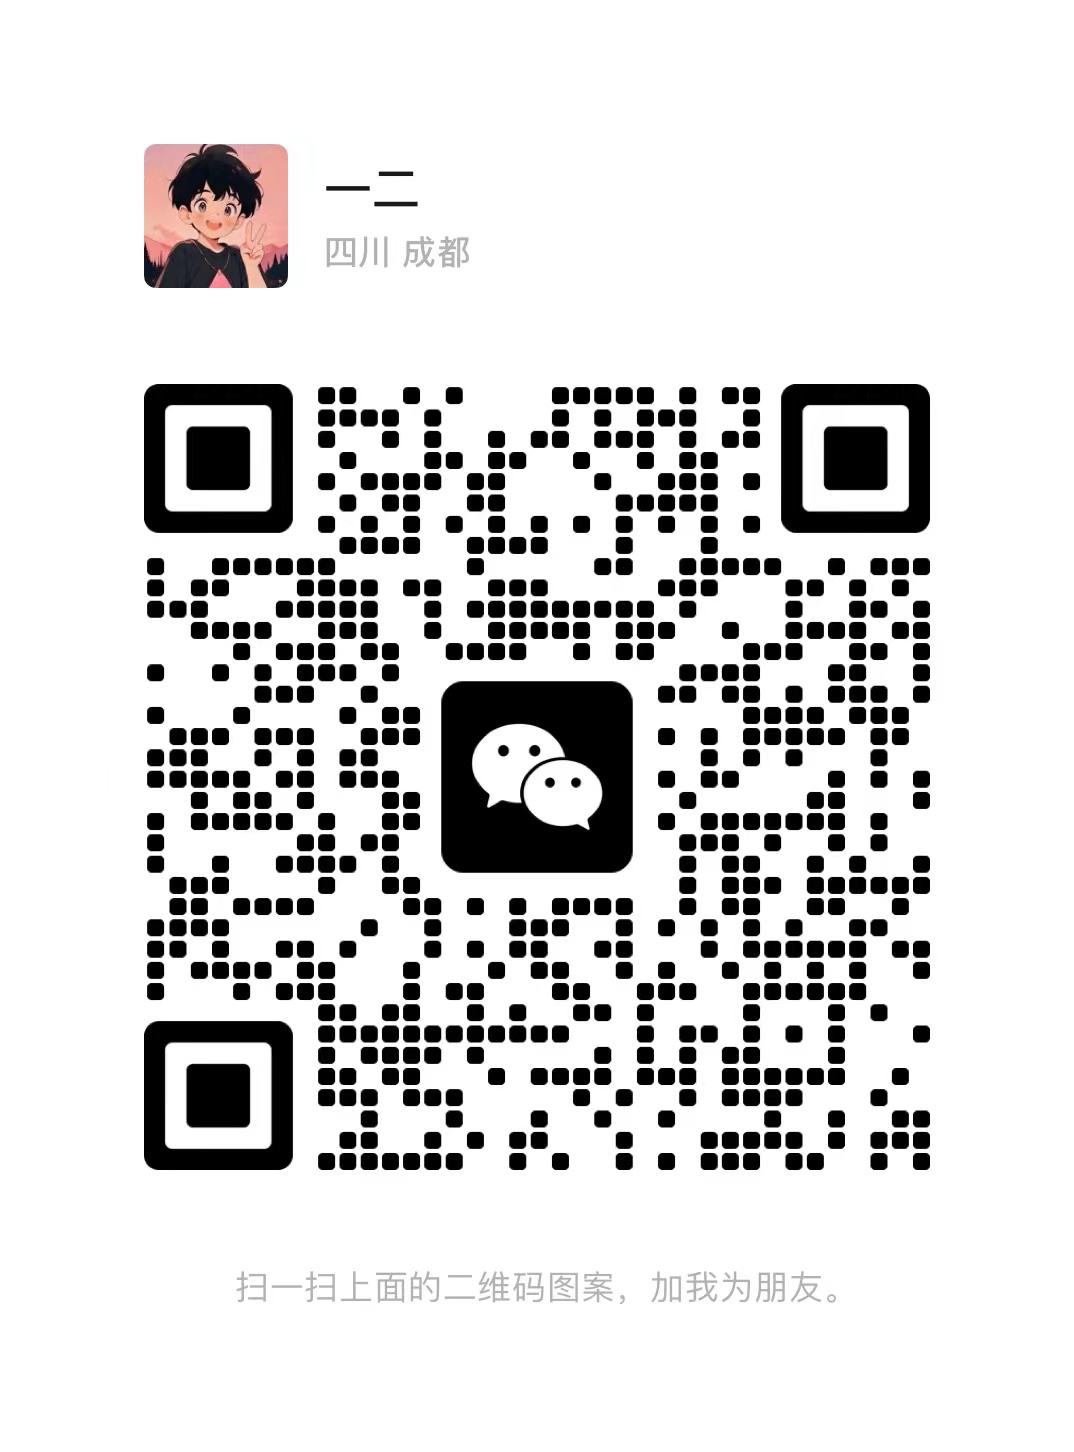
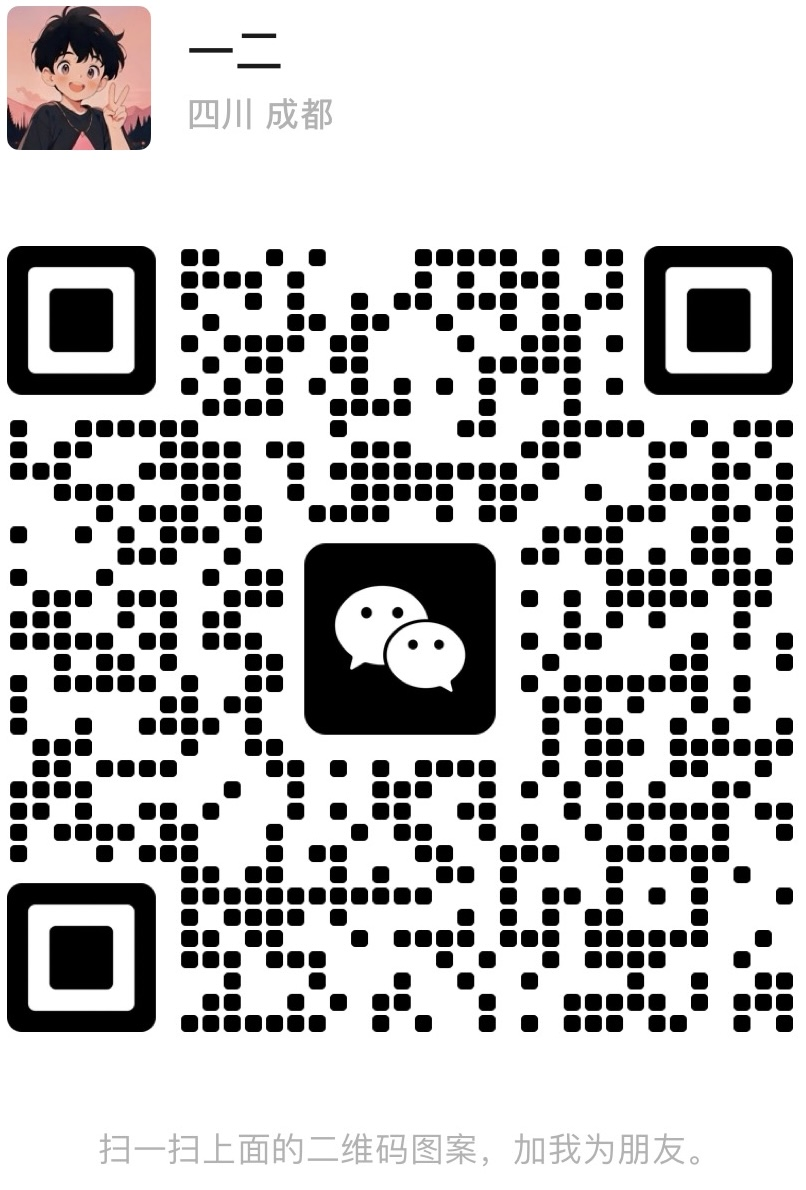
docs: update README.md

diff --git a/README.md b/README.md
@@ -20,7 +20,7 @@
 
 如果觉得周刊对你有帮助，可以交个朋友 ❤
 
-<img src="https://raw.githubusercontent.com/campcc/weekly/main/images/wechat.png" width="200" height="300" />
+<img src="https://raw.githubusercontent.com/campcc/weekly/main/images/wechat.png" width="200" />
 
 ## 如何订阅？
 
